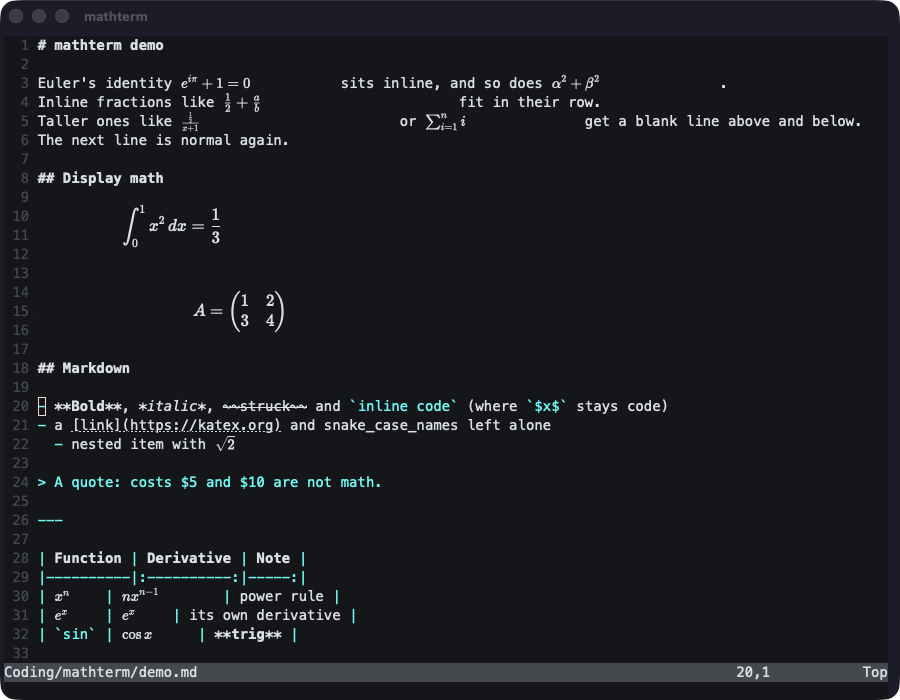
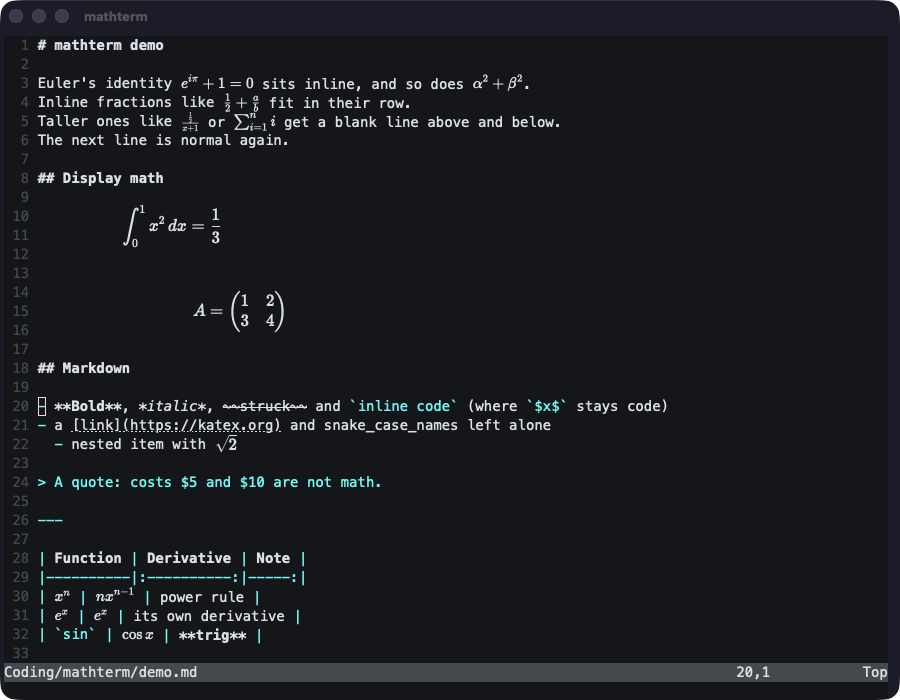
lineHeight config, lone-row overflow, README screenshots

diff --git a/ui/automath.js b/ui/automath.js
@@ -26,6 +26,10 @@ const MAX_GROW = 3;
 // When math grew into neighboring rows, keep this much (in rows) clear at the top and bottom so it
 // doesn't touch the text around it.
 const GROW_MARGIN = 0.25;
+// One-row inline math may overflow its row by this much when neither neighbor row has math: KaTeX's
+// parentheses are taller than a text row, so at 1.0 `f(x)` shrinks to ~0.86. Text rows have spare padding
+// (lineHeight 1.2); a neighbor's math would collide, so with one it stays at INLINE_OVERFLOW.
+const LONE_OVERFLOW = 1.1;
 // Markdown code: skip rows inside ``` fences (tracked from the top of the viewport) and `inline code`.
 const FENCE = /^\s*(?:\d+\s+)?```/;
 // Rows above the viewport read to know whether its top is inside a fence.
@@ -239,7 +243,7 @@ function joinRows(found) {
       if (runs.length) parts.push({ runs, cols: z - a });
     };
     ms.forEach((m, k) => {
-      parts.push({ tex: m.tex, display: m.display, cols: m.x1 - m.x0, up: m.y - m.top, span: m.span,
+      parts.push({ tex: m.tex, display: m.display, cols: m.x1 - m.x0, up: m.y - m.top, span: m.span, overflow: m.overflow,
         fg: m.c ? cellColor(m.c, true) : term.options.theme.foreground });
       text(m.x1, k + 1 < ms.length ? ms[k + 1].x0 : x1);
     });
@@ -271,6 +275,7 @@ function grow(found, cursorRow) {
     if (!f.display) up = down = Math.min(up, down);
     f.top = f.y - up;
     f.span = f.rows + up + down;
+    f.overflow = taken.has(f.y - 1) || taken.has(last + 1) ? INLINE_OVERFLOW : LONE_OVERFLOW;
   }
 }
 
@@ -304,7 +309,7 @@ function makeJoined(item, cw, ch) {
       inner.innerHTML = html;
       inner.style.color = p.fg;
       // grown math stays centered on this row, so it may extend past the 1-row box
-      const maxH = p.span === 1 ? ch * INLINE_OVERFLOW : (p.span - 2 * GROW_MARGIN) * ch;
+      const maxH = p.span === 1 ? ch * p.overflow : (p.span - 2 * GROW_MARGIN) * ch;
       fitInk(inner, p.cols * cw, maxH);
       x += Math.min(p.cols * cw, inner.getBoundingClientRect().width);
     }
@@ -332,7 +337,7 @@ function makeOverlay(item, cw, ch) {
   el.appendChild(inner);
   autoLayer.appendChild(el);
   const grew = item.span > item.rows;
-  const maxH = item.span === 1 ? ch * INLINE_OVERFLOW : (item.span - (grew ? 2 * GROW_MARGIN : 0)) * ch;
+  const maxH = item.span === 1 ? ch * item.overflow : (item.span - (grew ? 2 * GROW_MARGIN : 0)) * ch;
   if (block) {
     const r = inner.getBoundingClientRect();
     const s = Math.min(1, (item.x1 - item.x0) * cw / r.width, maxH / r.height);
@@ -382,7 +387,7 @@ function scan() {
     const [cw, ch] = cellSize();
     for (const it of findMath()) {
       // Position is left out so that scrolling moves existing overlays instead of rebuilding them.
-      const key = it.key ? `${it.key}|${cw}|${ch}` : [it.span, it.y - it.top, it.rows, it.x1 - it.x0, it.pad, it.display, it.tex,
+      const key = it.key ? `${it.key}|${cw}|${ch}` : [it.span, it.overflow, it.y - it.top, it.rows, it.x1 - it.x0, it.pad, it.display, it.tex,
         it.c && cellColor(it.c, true), it.c && cellColor(it.c, false), cw, ch].join('|');
       const pool = old.get(key) || [];
       let i = pool.findIndex((o) => o.top === it.top && o.x0 === it.x0);

diff --git a/ui/renderer.js b/ui/renderer.js
@@ -56,7 +56,7 @@ function setFontSize(px) {
 }
 
 // ~/.config/mathterm/config.json: { "theme": "catppuccin-mocha" | {..ITheme..}, "fontSize": 14, "fontFamily": "...",
-//   "autoDetectIgnore": ["*.tex", ...] }
+//   "lineHeight": 1.2, "autoDetectIgnore": ["*.tex", ...] }
 let config = {}; // the parsed config.json, for other modules (automath.js reads autoDetectIgnore)
 function applyConfig(text) {
   let cfg = {};
@@ -71,6 +71,7 @@ function applyConfig(text) {
   }
   applyTheme(typeof cfg.theme === 'string' ? THEMES[cfg.theme] : cfg.theme);
   if (cfg.fontFamily) term.options.fontFamily = cfg.fontFamily;
+  if (cfg.lineHeight) term.options.lineHeight = cfg.lineHeight;
   baseFontSize = cfg.fontSize || baseFontSize;
   setFontSize(baseFontSize);
 }

diff --git a/README.md b/README.md
@@ -18,7 +18,11 @@ math over the cells where the source sits, in the source's own colors.
   markdown lay out equations, so it renders at full size instead of being squeezed into one row.
 - **Few false positives:** `$5 and $10` stays text, code fences and `` `inline code` `` are skipped, and
   anything KaTeX can't parse is left alone.
+- **No gaps:** math usually renders narrower than its LaTeX source, so the text after it is redrawn
+  flush against it.
 - **Copy works:** the cells still hold the source, so copying an equation gives you its LaTeX.
+
+![Claude Code explaining the Riemann hypothesis in mathterm: inline and display math typeset in its replies](docs/claude-code.png)
 
 Cmd-Shift-M toggles detection.
 
@@ -40,6 +44,7 @@ npm start
   "theme": "catppuccin-mocha",
   "fontSize": 14,
   "fontFamily": "Menlo, monospace",
+  "lineHeight": 1.2,
   "autoDetectIgnore": ["*.tex", "*.sty", "*.cls"]
 }
 ```
@@ -60,8 +65,8 @@ nvim's `set title`, switching files with `:e` is picked up as well.
 
 ## Add-on: `mdv`, a markdown viewer
 
-Detection can only use the space a program already left for the math, so inline math can leave a gap
-where its source was wider. `mdv` is a small viewer (Python, stdlib only) that lays the page out itself:
+Detection can only use the space a program already left for the math, so tall inline math between lines
+of text is shrunk to fit its row. `mdv` is a small viewer (Python, stdlib only) that lays the page out itself:
 
 ```sh
 mdv notes.md                         # styled markdown with typeset math
@@ -85,8 +90,8 @@ math as source. With output redirected (`mdv f.md > out`) it prints the file unc
 
 Early prototype, macOS only. Known gaps:
 
-- Detected inline math can't take more room than its source: a gap is left after it, and tall inline math
-  with text directly above and below is shrunk to fit its row.
+- Tall inline math with text directly above and below is shrunk to fit its row.
+- On a soft-wrapped line, a word the terminal split at the edge stays split after the gap closes.
 - TUIs that draw code blocks without backticks (Claude Code does) can get `$var$`-like text typeset.
 - In `mdv`, tables wider than the window wrap and break their borders.
 

diff --git a/NOTES.md b/NOTES.md
@@ -55,7 +55,7 @@ raw:    ESC ] 7777 ; raw ; <len> BEL                    (next len cells are lite
 - `~/.config/mathterm/config.json` (or `$MATHTERM_CONFIG`), read by the Rust `config` command at startup and
   parsed in the frontend, so a broken file shows an error in the status bar instead of failing:
   `{ "theme": "catppuccin-mocha" | { ...ITheme }, "fontSize": 14, "fontFamily": "Menlo, monospace",
-  "autoDetectIgnore": ["*.tex", "*.sty", "*.cls"] }`.
+  "lineHeight": 1.2, "autoDetectIgnore": ["*.tex", "*.sty", "*.cls"] }`.
   A custom theme object is merged over `default`, so a partial one works.
 - `applyTheme` sets xterm's theme plus CSS variables (`--bg`, `--fg`, `--dim`, `--h1`, `--status-bg`) for
   everything drawn outside xterm: math overlays, rules, the status bar. Auto-detect resolves palette
@@ -130,6 +130,17 @@ bin/mdv --test     # mdv self-check
 - `src-tauri/icons/icon.png` is a placeholder (Tauri needs one to compile). Run `npx tauri icon <png>` for a real one.
 
 ## Changelog
+
+### 2026-11-11: lineHeight config, lone-row overflow, README screenshots
+- `"lineHeight"` in config.json (default 1.2).
+- Auto-detect: one-row inline math may overflow its row by 10% (`LONE_OVERFLOW`) when neither neighbor row
+  has math. KaTeX's parens are taller than a text row, so at 1.0 even `f(x)` shrank to ~0.86. With math on a
+  neighbor row it stays at `INLINE_OVERFLOW` (1.0): a global 1.1 made `\frac{a}{b}` collide with the `\sum^n`
+  on the next row, and the lower overlay's background clipped it. `mdv` keeps 1.0.
+- README: Claude Code screenshot (`docs/claude-code.png`, taken by the user), regenerated `demo.png`/`nvim.png`.
+- `shot:docs` nvim shot was blank: `.ready` was touched before nvim started, so the capture beat nvim's
+  first draw. Now `(sleep 3; touch ...) & disown; nvim ...`. Gotcha: `&!` doesn't work there; the INIT
+  is typed into interactive zsh, which history-expands the `!`.
 
 ### 2026-11-11: close gaps after inline math
 - **Joined rows** (`joinRows`/`makeJoined` in `automath.js`): on a row where one-row matches are followed by
